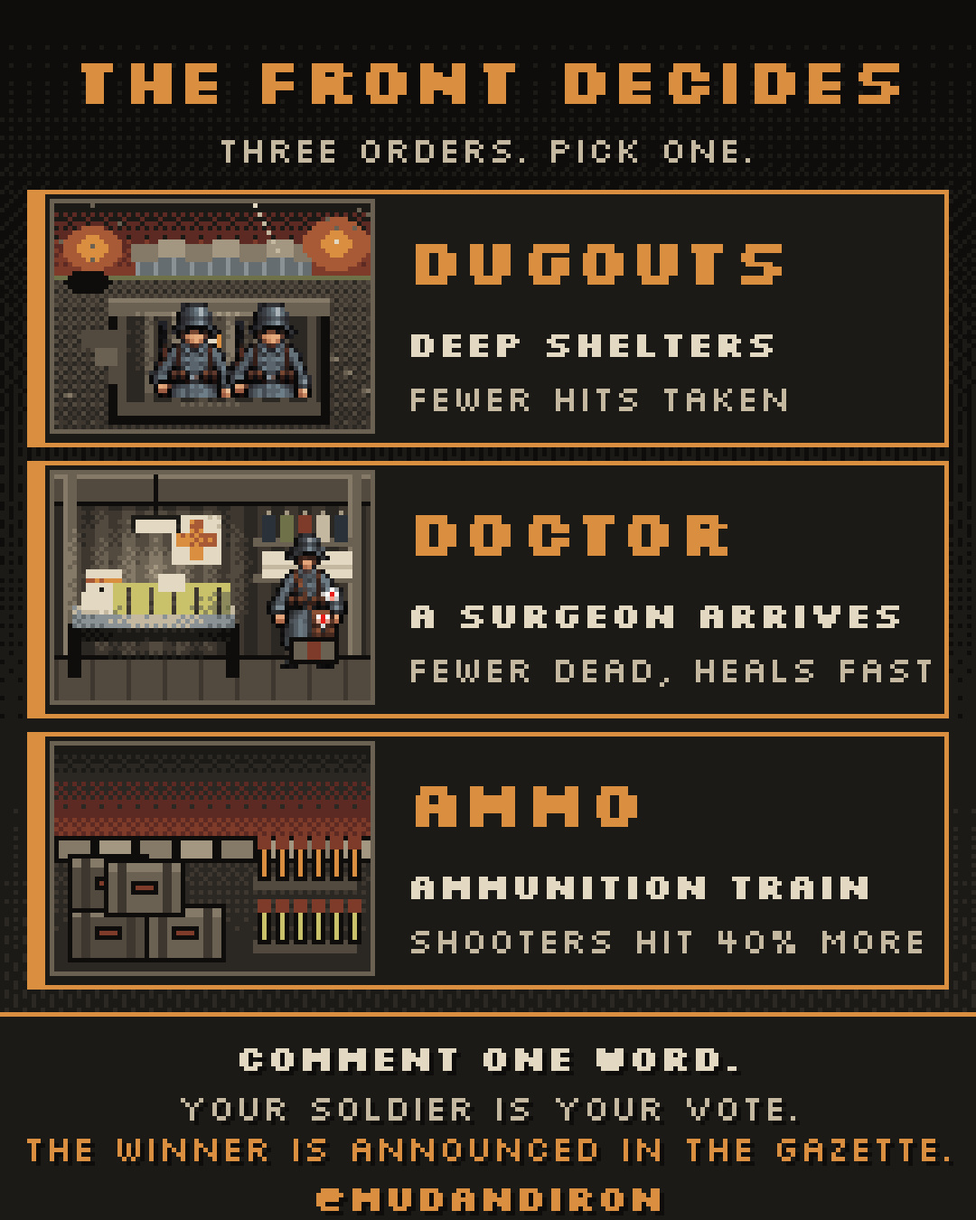
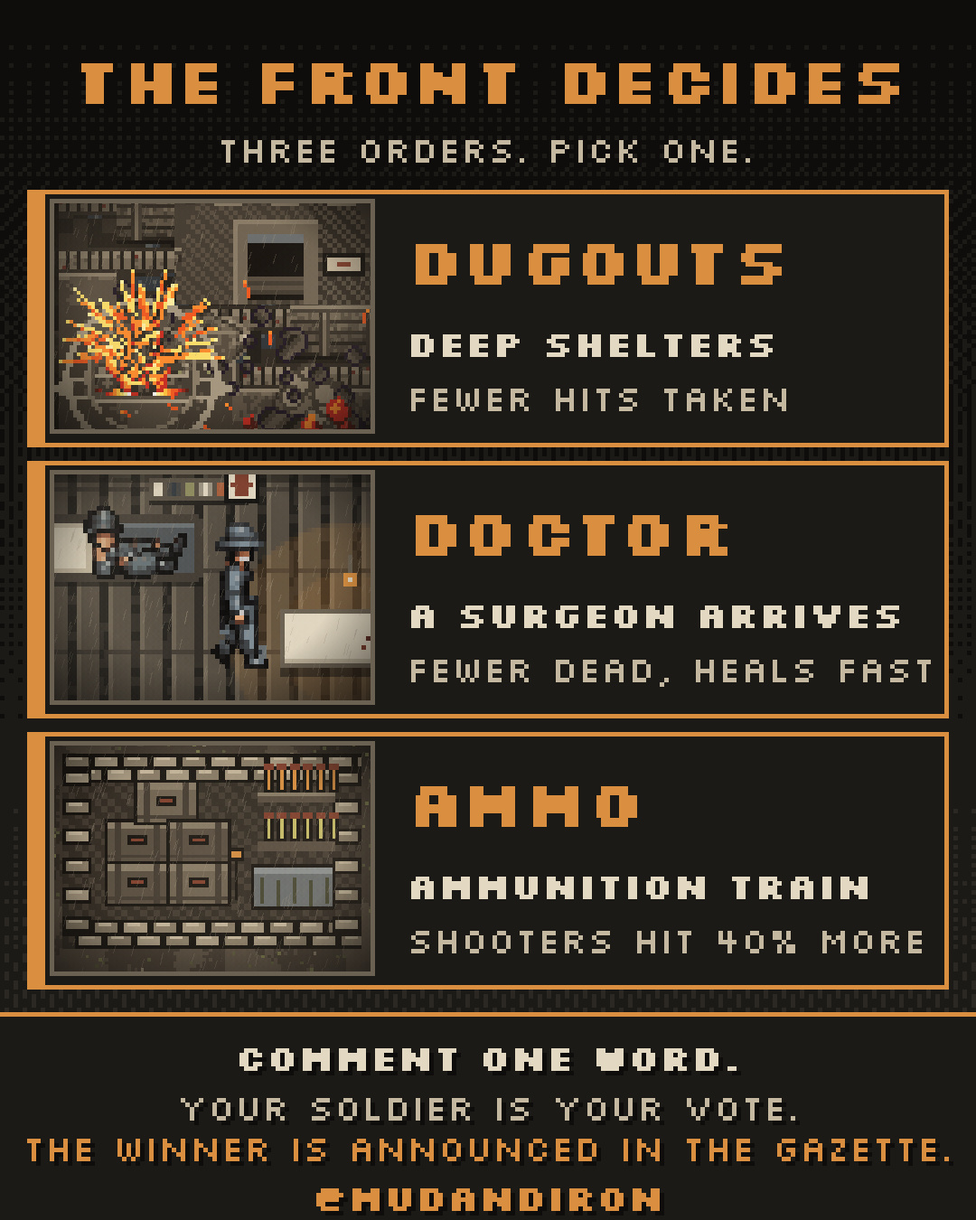
Post hlasování: ilustrace přímo ze hry (tools/shoot-game.mjs); reel-rip naplánován 12. 11. 18:00 UTC; skill doplněn
Claude-Session: https://claude.ai/code/session_01VWWMSwJGFZow7tBNcmKaEZ

Changed region(s): [[0.0306, 0.1556, 0.3972, 0.8089]]

diff --git a/marketing/promo/plan.html b/marketing/promo/plan.html
@@ -13,7 +13,7 @@ details summary{cursor:pointer;color:var(--dim);font-size:14px}pre{white-space:p
 <h1>MUD &amp; IRON · plán</h1><div class="clock" id="clock"></div>
 <div id="app"></div>
 <script>
-const D={"day":4,"items":[{"id":"carousel-intro","label":"","type":"carousel","at":null,"files":["01_the_war_never_ended.jpg","03_how_to_enlist.jpg"],"caption":"For six winters the Concord and the Hegemony have bled into the same valley of mud.","full":"For six winters the Concord and the Hegemony have bled into the same valley of mud.\nNeither will yield. Both need men.\nThey need you. 🪖\n\nSwipe → how to enlist.\nEvery follower becomes a soldier with a name, a unit and a story that is written day by day.\n\n#pixelart #ww1 #grimdark #indiegame #mudandiron","trigger":null,"published":{"at":"2026-11-08T18:24:54.080Z","link":"https://www.instagram.com/p/DffZOEhmmn9/"}},{"id":"post-sides","label":"","type":"image","at":null,"files":["02_choose_your_side.jpg"],"caption":"Choose your side. ⚔","full":"Choose your side. ⚔\n\n🩶 THE HEGEMONY\nAn iron empire that does not know the word retreat. Order, discipline, the long patience of steel.\n→ comment HEGEMONY\n\n🫒 THE CONCORD\nA ragged alliance of free provinces in khaki and flat steel helmets. They fight for the right to go home.\n→ comment CONCORD\n\nYour comment = your soldier. No switching sides.\n\n#pixelart #ww1 #chooseyourside #mudandiron","trigger":null,"published":{"at":"2026-11-08T18:25:08.656Z","link":"https://www.instagram.com/p/DffZPbFGjL1/"}},{"id":"reel-teaser","label":"","type":"reel","at":null,"files":["reel_teaser.mp4"],"caption":"The Great War ended. Here, it never did. ⚔","full":"The Great War ended. Here, it never did. ⚔\n\nMud & Iron is a war fought by Instagram. Every follower becomes a soldier on a giant pixel trench map, with a name, a story and a fate that changes every day.\n\nPick a side 👇\n🩶 HEGEMONY — iron endures\n🫒 CONCORD — together, or not at all\n\nComment your side and take your post on the front.\nFind yourself: link in bio.\n\n#pixelart #ww1 #indiegame #trenchwarfare #gamedev #pixelartgame #grimdark #interactivegame #instagramgame #mudandiron","trigger":null,"published":{"at":"2026-11-08T18:25:58.443Z","link":"https://www.instagram.com/reel/DffZTHegXil/"}},{"id":"reel-enlist","label":"","type":"reel","at":null,"files":["reel_enlist.mp4"],"caption":"This rifle has no name yet. 🪖","full":"This rifle has no name yet. 🪖\n\nComment CONCORD or HEGEMONY below and it's yours.\nWithin a few hours your soldier takes a free post on the front, with your @name on it.\n\nOne comment, one soldier. Choose carefully, there's no switching sides.\n\n#pixelart #ww1 #indiegame #enlist #gamedev #pixelartgame #mudandiron","trigger":null,"published":{"at":"2026-11-08T18:26:37.918Z","link":"https://www.instagram.com/reel/DffZXyxDcxQ/"}},{"id":"poster-generic","label":"","type":"image","at":"2026-11-09T23:00:00Z","files":["04_enlist_poster.jpg"],"caption":"YOUR FRONT NEEDS YOU. 🫵","full":"YOUR FRONT NEEDS YOU. 🫵\n\nComment CONCORD or HEGEMONY and join the war.\nLink in bio to find yourself on the front.\n\n#pixelart #ww1 #propaganda #recruitment #mudandiron","trigger":null,"published":{"at":"2026-11-09T23:04:28.750Z","link":"https://www.instagram.com/p/DfieAbiFweM/"}},{"id":"reel-sides","label":"","type":"reel","at":null,"files":["reel_sides.mp4"],"caption":"Two sides. One valley of mud. Six winters. 🩶 vs 🫒","full":"Two sides. One valley of mud. Six winters. 🩶 vs 🫒\n\nTHE HEGEMONY — an iron empire in field grey. Order. Discipline. Iron endures.\nTHE CONCORD — free provinces in khaki. They fight to go home. Together, or not at all.\n\nWhich side are you on? Comment it 👇 (it enlists you)\n\n#pixelart #ww1 #chooseyourside #indiegame #gamedev #mudandiron","trigger":null,"published":null},{"id":"poster-hegemony","label":"","type":"image","at":null,"files":["05_enlist_hegemony.jpg"],"caption":"IRON ENDURES. 🩶","full":"IRON ENDURES. 🩶\nThe Empire needs disciplined men. Comment HEGEMONY and take your post.\n\n#pixelart #ww1 #hegemony #mudandiron","trigger":null,"published":null},{"id":"reel-howto","label":"","type":"reel","at":"2026-11-12T23:00:00Z","files":["reel_howto.mp4"],"caption":"How to enlist in 10 seconds 🪖","full":"How to enlist in 10 seconds 🪖\n1⃣ Follow @mudandiron\n2⃣ Comment CONCORD or HEGEMONY under the pinned reel\n3⃣ Find your soldier on the front: link in bio\n\nEvery day the front changes. Every day you vote on what happens next.\n\n#pixelart #ww1 #howto #indiegame #mudandiron","trigger":null,"published":null},{"id":"poster-concord","label":"","type":"image","at":"2026-11-13T23:00:00Z","files":["06_enlist_concord.jpg"],"caption":"STAND TOGETHER. 🫒","full":"STAND TOGETHER. 🫒\nThe Alliance needs every hand. Comment CONCORD and take your post.\n\n#pixelart #ww1 #concord #mudandiron","trigger":null,"published":null},{"id":"reel-story","label":"","type":"reel","at":null,"files":["reel_story.mp4"],"caption":"Six winters. One valley of mud. The war that never ended. 🪖","full":"Six winters. One valley of mud. The war that never ended. 🪖\n\nMud & Iron is a war fought by Instagram followers.\nComment your side and a soldier with YOUR name takes a post on the front, for good.\n\n⚔ Every soldier gets a role, a rank and a service record written day by day\n🌑 Every midnight the front turns: wounds, promotions, the fallen\n🩸 Fall, and the next of your family picks up the rifle\n🗳 Vote in the comments and decide what happens next\n💥 500 claimed soldiers unlock the artillery\n🎖 The first 100 recruits wear the First Wave medal forever\n\nComment CONCORD or HEGEMONY below 👇\nFind yourself on the front: link in bio.\n\n#pixelart #ww1 #indiegame #trenchwarfare #gamedev #pixelartgame #grimdark #interactivegame #instagramgame #mudandiron","trigger":null,"published":{"at":"2026-11-08T23:03:41.198Z","link":"https://www.instagram.com/reel/Dff5CQYiCTl/"}},{"id":"reel-day1","label":"Day reel","type":"reel","at":"2026-11-09T13:12:12.382Z","files":["reel_day1.mp4"],"caption":"Day 1 on Verdel Ridge. 🪖","full":"Day 1 on Verdel Ridge. 🪖\nYesterday they were strangers. Tonight 32 of them hold the line: 18 for the Hegemony, 14 for the Concord.\n\n⚔ THE RACE FOR VERDEL RIDGE\nFirst side to 100 soldiers takes the heights: 3 days of artillery on the enemy, a safer week for every soldier who fought, and the title of Hero for the recruit who tips the balance.\n\n📰 Every morning at 13:00 UTC the Trench Gazette prints what happened on the line. If your name is in it, you were there.\n\nEvery friend you bring is one more rifle.\n🩶 comment HEGEMONY · 🫒 comment CONCORD\nFind yourself: link in bio.\n\n#pixelart #ww1 #indiegame #trenchwarfare #instagramgame #gamedev #mudandiron","trigger":null,"published":{"at":"2026-11-09T13:18:23.920Z","link":"https://www.instagram.com/reel/Dfha2PzFxro/"}},{"id":"story-day1-1","label":"","type":"story","at":null,"files":["story_day1_1.mp4"],"caption":"","full":"","trigger":null,"published":{"at":"2026-11-09T13:36:09.203Z","link":"https://www.instagram.com/stories/mudandiron/4026626701375125159"}},{"id":"story-day1-2","label":"","type":"story","at":null,"files":["story_day1_2.mp4"],"caption":"","full":"","trigger":null,"published":{"at":"2026-11-09T13:36:58.353Z","link":"https://www.instagram.com/stories/mudandiron/4026627117113561390"}},{"id":"victory-ridge","label":"","type":"carousel","at":null,"files":["victory_ridge_concord_1.jpg","victory_ridge_concord_2.jpg"],"caption":"🫒 VERDEL RIDGE HAS FALLEN. Now your side votes: comment FORTIFY or HOSPITAL below 👇","full":"🫒 VERDEL RIDGE HAS FALLEN. Now your side votes: comment FORTIFY or HOSPITAL below 👇\n\nThe Concord reached 100 soldiers first (100 against 94) and took the heights. The deciding rifle belonged to jro_se11, now Hero of Verdel Ridge. 🎖\n\nFor 3 days the guns on the ridge pound the Hegemony lines. For a week the high ground keeps the Concord safer. Every Concord soldier wears the ribbon.\n\n🗳 NOW EACH SIDE CHOOSES WHAT TO BUILD\nComment one word below. Your soldier is your ballot: we know which side you serve, so no need to write it.\n\n🧱 FORTIFY: sandbag parapets, fewer men hit\n🏥 HOSPITAL: a hospital dugout, 4 more beds. Without a free bed, the badly wounded wait on stretchers\n\nThe Concord vote for the Concord. The Hegemony vote for the Hegemony. Built and announced in the Trench Gazette at 13:00 UTC.\nNot enlisted yet? Comment CONCORD or HEGEMONY together with your choice.\n\n⚔ The race for Hill 304 starts now. First side to 100 new recruits takes it.\n\n#pixelart #ww1 #indiegame #trenchwarfare #instagramgame #gamedev #mudandiron","trigger":"race: ridge","published":{"at":"2026-11-11T21:57:25.552Z","link":"https://www.instagram.com/p/Dfnf63qFCNV/"}},{"id":"vote-build-d2","label":"","type":"image","at":"2026-11-10T12:41:35.178Z","files":["vote_build_2.jpg"],"caption":"🗳 YOUR SIDE BUILDS ONE. Comment one word below 👇","full":"🗳 YOUR SIDE BUILDS ONE. Comment one word below 👇\n\n🏥 HOSPITAL: a hospital dugout. 4 beds instead of 2, fewer men die of their wounds.\n🧱 SANDBAGS: higher parapets. Fewer men hit, for good.\n\nEach side votes for itself. Your soldier is your ballot: we know which side you serve, so no need to write it. A side that sends no votes builds nothing.\n\nBuilt and announced in the Trench Gazette tomorrow at 13:00 UTC.\nNot enlisted yet? Comment HEGEMONY or CONCORD together with your choice.\n\n#pixelart #ww1 #indiegame #trenchwarfare #instagramgame #gamedev #mudandiron","trigger":null,"published":{"at":"2026-11-10T12:46:15.145Z","link":"https://www.instagram.com/p/Dfj8DfWDIiT/"}},{"id":"casualties-d2","label":"","type":"carousel","at":"2026-11-10T12:34:00.000Z","files":["day2_wounded_1.jpg","day2_wounded_2.jpg","day2_wounded_3.jpg"],"caption":"🩸 DAY 2: FIRST BLOOD ON VERDEL RIDGE","full":"🩸 DAY 2: FIRST BLOOD ON VERDEL RIDGE\n\nThe big guns are still silent. The rifles are not. Five men were hit overnight.\n\n🩶 HEGEMONY: 3 hit\n• @0__freddie__0 badly wounded, shot by @ghai.gpt of the Concord. Now in a bed at the aid post.\n• @slightlyretarded69 grazed, shot by @leo.glc\n• @wolfmanantony grazed, shot by @csllgaks\n\n🫒 CONCORD: 2 hit\n• @pavla.9_ and @the_cowboii grazed by stray bullets\n\nEach side has only an aid post with 2 beds. When they fill, the badly wounded wait on stretchers in the mud. No side has a hospital yet.\n🗳 Today at 15:00 UTC each side votes what to build. Watch this account.\n\nRead the Trench Gazette and find your soldier: link in bio.\n\n#pixelart #ww1 #indiegame #trenchwarfare #instagramgame #gamedev #mudandiron","trigger":null,"published":{"at":"2026-11-10T12:35:23.458Z","link":"https://www.instagram.com/p/Dfj6z8zjtXc/"}},{"id":"reel-news","label":"","type":"reel","at":"2026-11-11T09:00:00Z","files":["reel_news.mp4"],"caption":"NEW ON THE FRONT 🪖","full":"NEW ON THE FRONT 🪖\n\n🎯 Every rifle on the line is a real player, and now every shot can hit one. Hit someone and it goes in both your service records.\n⚔ Ten trades: snipers, machine gunners, stretcher bearers, sappers, cooks… every one of them matters.\n🎖 Every day at the front makes you better: Recruit → Seasoned → Veteran → Elite.\n🏥 The badly wounded need a bed. Each side has an aid post with only two. Follow the red cross on the map.\n🗳 Each side votes what to build: HOSPITAL or SANDBAGS. Find the vote post on our profile. Voting closes today at 13:00 UTC.\n🕯 Fall, and your house fights on. Your heir takes the rifle.\n🏅 Longest alive, best shots, oldest houses: it's all in the Ranks.\n\nComment CONCORD or HEGEMONY to enlist. Find your soldier: link in bio.\n\n#pixelart #ww1 #indiegame #gamedev #trenchwarfare #instagramgame #mudandiron","trigger":null,"published":{"at":"2026-11-11T09:03:44.147Z","link":"https://www.instagram.com/reel/DfmHS-VD06p/"}},{"id":"reel-day2","label":"Day reel","type":"reel","at":"2026-11-10T17:53:17.210Z","files":["reel_day2.mp4"],"caption":"Day 2 on Verdel Ridge. 🪖","full":"Day 2 on Verdel Ridge. 🪖\nThe big guns are silent. The rifles are not.\n\n🪖 136 soldiers now hold the line: 63 for the Hegemony, 73 for the Concord.\n\n🎯 One shot from a Concord sniper. A Hegemony machine gunner, badly wounded, now in a bed at the aid post.\n🩸 Five men hit by morning: three Hegemony, two Concord.\n🏥 Each aid post has only two beds. When they fill, the badly hit wait on stretchers, in the mud.\n\n🗳 Today each side votes what to build: HOSPITAL or SANDBAGS. Comment under our vote post. Your soldier is your ballot.\n\n📰 Every morning at 13:00 UTC the Trench Gazette prints what happened on the line.\nComment CONCORD or HEGEMONY to enlist. Find your soldier: link in bio.\n\n#pixelart #ww1 #indiegame #trenchwarfare #instagramgame #gamedev #mudandiron","trigger":null,"published":{"at":"2026-11-10T17:59:33.696Z","link":"https://www.instagram.com/reel/Dfkf3GQEy_X/"}},{"id":"reel-barrage","label":"","type":"reel","at":"2026-11-10T21:00:00Z","files":["reel_barrage.mp4"],"caption":"The guns on Verdel Ridge never sleep. 💥","full":"The guns on Verdel Ridge never sleep. 💥\n\nEvery soldier who falls out there is a real player.\nThe first army to 100 soldiers takes the ridge, and the winner gets the guns: 3 days of artillery on the enemy trenches.\n\nRight now: 🫒 CONCORD 74 · 🩶 HEGEMONY 65\n\nPick your side. Bring your friends. Every recruit counts.\nComment CONCORD or HEGEMONY 👇\n\n#pixelart #ww1 #trenchwarfare #indiegame #gamedev #pixelartgame #mudandiron","trigger":null,"published":{"at":"2026-11-10T21:03:38.650Z","link":"https://www.instagram.com/reel/Dfk07JrCkrd/"}},{"id":"letters-1","label":"","type":"image","at":null,"files":["letters_1.jpg"],"caption":"LETTERS FROM THE FRONT ✉","full":"LETTERS FROM THE FRONT ✉\n\nTonight the lamps are low and the guns have gone quiet for an hour. Your soldier finally has time to write home.\n\nWrite the letter in the comments. Take your time:\n✏ What is it like in your trench?\n🏥 Who did you see carried past on a stretcher? Who was in the bed next to you?\n⛰ What would taking the ridge mean to you?\n\nLong letters welcome. Write it as your soldier, in your own words.\nThe best letters will be read on the front in the next Day reel. ✉\n\nNot enlisted yet? Comment CONCORD or HEGEMONY first, and your soldier takes a post on the line.\n\n#pixelart #ww1 #lettershome #indiegame #gamedev #trenchwarfare #mudandiron","trigger":null,"published":null},{"id":"council-ridge","label":"","type":"image","at":"2026-11-11T22:18:00Z","files":["council_1.jpg"],"caption":"FRONT COUNCIL 🗺","full":"FRONT COUNCIL 🗺\n\nVerdel Ridge has fallen. The guns are talking. Now it's your turn.\n\nWhat should your side do next? Write your idea in the comments. Big or small, serious or crazy, as long as it fits the war:\n⚔ an attack, a trap, a raid\n🏥 a way to save more men\n🧱 something to build\n📣 anything the front would remember\n\nThe most liked idea of each side becomes an order in the game, and is announced in the Trench Gazette. ❤ Like the ideas you want to see happen.\n\nYour soldier is your voter: we know which side you serve, so no need to write it. Not enlisted yet? Comment CONCORD or HEGEMONY first, and then your idea.\n\n#pixelart #ww1 #indiegame #trenchwarfare #instagramgame #gamedev #mudandiron","trigger":null,"published":{"at":"2026-11-11T22:19:01.014Z","link":"https://www.instagram.com/p/DfniZGbFPG1/"}},{"id":"story-council","label":"","type":"story","at":"2026-11-11T22:29:00Z","files":["story_council.jpg"],"caption":"","full":"","trigger":null,"published":{"at":"2026-11-11T22:29:53.019Z","link":"https://www.instagram.com/stories/mudandiron/4028345121850548348"}},{"id":"reel-ridge","label":"Day reel","type":"reel","at":"2026-11-12T10:00:00Z","files":["reel_ridge.mp4"],"caption":"VERDEL RIDGE HAS FALLEN 🎖","full":"VERDEL RIDGE HAS FALLEN 🎖\n\nThe Concord reached 100 soldiers first (100 against 94) and took the heights. The deciding rifle: Lucien Jro, a field cook, now Hero of Verdel Ridge with the Medal of Valor.\n\nFor 3 nights the guns on the ridge pound the Hegemony lines. The Concord hold the high ground for a week. 65 new soldiers joined the front since the last report.\n\n🪖 222 soldiers on the front right now: 108 Hegemony, 114 Concord.\n\n🗺 WHAT HAPPENS NEXT? The vote is in our FRONT COUNCIL post on this profile. Comment your idea for what your side should do, and like the ideas you want to see. The most liked idea of each side becomes an order.\n\nNot enlisted yet? Comment CONCORD or HEGEMONY under any post.\n\n#pixelart #ww1 #indiegame #trenchwarfare #instagramgame #gamedev #mudandiron","trigger":null,"published":{"at":"2026-11-12T10:05:26.364Z","link":"https://www.instagram.com/reel/DfozJ31j-GZ/"}},{"id":"vote-orders-d4","label":"","type":"image","at":null,"files":["vote_orders_1.jpg"],"caption":"THE FRONT DECIDES ⚔","full":"THE FRONT DECIDES ⚔\n\nVerdel Ridge is in Concord hands, and the Hegemony lines are under the guns. Now the front chooses its next order. One post, one vote, three choices.\n\nComment ONE word:\n🧱 DUGOUTS: deep shelters. Fewer men hit by shells and by fire.\n🩺 DOCTOR: a surgeon arrives. Fewer dead and faster healing.\n📦 AMMO: an ammunition train arrives. Your shooters hit 40% more.\n\nYour soldier is your vote: we know which side you serve, so no need to write it. Each side counts its own votes, so the two sides can choose differently. Not enlisted yet? Comment CONCORD or HEGEMONY together with your choice.\n\nThe winning order of each side is announced in the Trench Gazette at 13:00 UTC.\n\n#pixelart #ww1 #indiegame #trenchwarfare #instagramgame #gamedev #mudandiron","trigger":null,"published":null}],"losses":{"day":4,"sides":[{"name":"Hegemony","dead":5,"light":9,"heavy":11,"crit":6,"shell":15},{"name":"Concord","dead":1,"light":13,"heavy":4,"crit":2,"shell":0}]},"now":[{"name":"Hegemony","wounded":22,"missing":1},{"name":"Concord","wounded":19,"missing":1}],"victory":{"name":"Verdel Ridge","faction":"Concord","day":3,"to":6,"loser":"Hegemony"},"pages":"https://morgenster95.github.io/fronta","slots":{"gazette":13,"evening":23}};
+const D={"day":4,"items":[{"id":"carousel-intro","label":"","type":"carousel","at":null,"files":["01_the_war_never_ended.jpg","03_how_to_enlist.jpg"],"caption":"For six winters the Concord and the Hegemony have bled into the same valley of mud.","full":"For six winters the Concord and the Hegemony have bled into the same valley of mud.\nNeither will yield. Both need men.\nThey need you. 🪖\n\nSwipe → how to enlist.\nEvery follower becomes a soldier with a name, a unit and a story that is written day by day.\n\n#pixelart #ww1 #grimdark #indiegame #mudandiron","trigger":null,"published":{"at":"2026-11-08T18:24:54.080Z","link":"https://www.instagram.com/p/DffZOEhmmn9/"}},{"id":"post-sides","label":"","type":"image","at":null,"files":["02_choose_your_side.jpg"],"caption":"Choose your side. ⚔","full":"Choose your side. ⚔\n\n🩶 THE HEGEMONY\nAn iron empire that does not know the word retreat. Order, discipline, the long patience of steel.\n→ comment HEGEMONY\n\n🫒 THE CONCORD\nA ragged alliance of free provinces in khaki and flat steel helmets. They fight for the right to go home.\n→ comment CONCORD\n\nYour comment = your soldier. No switching sides.\n\n#pixelart #ww1 #chooseyourside #mudandiron","trigger":null,"published":{"at":"2026-11-08T18:25:08.656Z","link":"https://www.instagram.com/p/DffZPbFGjL1/"}},{"id":"reel-teaser","label":"","type":"reel","at":null,"files":["reel_teaser.mp4"],"caption":"The Great War ended. Here, it never did. ⚔","full":"The Great War ended. Here, it never did. ⚔\n\nMud & Iron is a war fought by Instagram. Every follower becomes a soldier on a giant pixel trench map, with a name, a story and a fate that changes every day.\n\nPick a side 👇\n🩶 HEGEMONY — iron endures\n🫒 CONCORD — together, or not at all\n\nComment your side and take your post on the front.\nFind yourself: link in bio.\n\n#pixelart #ww1 #indiegame #trenchwarfare #gamedev #pixelartgame #grimdark #interactivegame #instagramgame #mudandiron","trigger":null,"published":{"at":"2026-11-08T18:25:58.443Z","link":"https://www.instagram.com/reel/DffZTHegXil/"}},{"id":"reel-enlist","label":"","type":"reel","at":null,"files":["reel_enlist.mp4"],"caption":"This rifle has no name yet. 🪖","full":"This rifle has no name yet. 🪖\n\nComment CONCORD or HEGEMONY below and it's yours.\nWithin a few hours your soldier takes a free post on the front, with your @name on it.\n\nOne comment, one soldier. Choose carefully, there's no switching sides.\n\n#pixelart #ww1 #indiegame #enlist #gamedev #pixelartgame #mudandiron","trigger":null,"published":{"at":"2026-11-08T18:26:37.918Z","link":"https://www.instagram.com/reel/DffZXyxDcxQ/"}},{"id":"poster-generic","label":"","type":"image","at":"2026-11-09T23:00:00Z","files":["04_enlist_poster.jpg"],"caption":"YOUR FRONT NEEDS YOU. 🫵","full":"YOUR FRONT NEEDS YOU. 🫵\n\nComment CONCORD or HEGEMONY and join the war.\nLink in bio to find yourself on the front.\n\n#pixelart #ww1 #propaganda #recruitment #mudandiron","trigger":null,"published":{"at":"2026-11-09T23:04:28.750Z","link":"https://www.instagram.com/p/DfieAbiFweM/"}},{"id":"reel-sides","label":"","type":"reel","at":null,"files":["reel_sides.mp4"],"caption":"Two sides. One valley of mud. Six winters. 🩶 vs 🫒","full":"Two sides. One valley of mud. Six winters. 🩶 vs 🫒\n\nTHE HEGEMONY — an iron empire in field grey. Order. Discipline. Iron endures.\nTHE CONCORD — free provinces in khaki. They fight to go home. Together, or not at all.\n\nWhich side are you on? Comment it 👇 (it enlists you)\n\n#pixelart #ww1 #chooseyourside #indiegame #gamedev #mudandiron","trigger":null,"published":null},{"id":"poster-hegemony","label":"","type":"image","at":null,"files":["05_enlist_hegemony.jpg"],"caption":"IRON ENDURES. 🩶","full":"IRON ENDURES. 🩶\nThe Empire needs disciplined men. Comment HEGEMONY and take your post.\n\n#pixelart #ww1 #hegemony #mudandiron","trigger":null,"published":null},{"id":"reel-howto","label":"","type":"reel","at":"2026-11-12T23:00:00Z","files":["reel_howto.mp4"],"caption":"How to enlist in 10 seconds 🪖","full":"How to enlist in 10 seconds 🪖\n1⃣ Follow @mudandiron\n2⃣ Comment CONCORD or HEGEMONY under the pinned reel\n3⃣ Find your soldier on the front: link in bio\n\nEvery day the front changes. Every day you vote on what happens next.\n\n#pixelart #ww1 #howto #indiegame #mudandiron","trigger":null,"published":null},{"id":"poster-concord","label":"","type":"image","at":"2026-11-13T23:00:00Z","files":["06_enlist_concord.jpg"],"caption":"STAND TOGETHER. 🫒","full":"STAND TOGETHER. 🫒\nThe Alliance needs every hand. Comment CONCORD and take your post.\n\n#pixelart #ww1 #concord #mudandiron","trigger":null,"published":null},{"id":"reel-story","label":"","type":"reel","at":null,"files":["reel_story.mp4"],"caption":"Six winters. One valley of mud. The war that never ended. 🪖","full":"Six winters. One valley of mud. The war that never ended. 🪖\n\nMud & Iron is a war fought by Instagram followers.\nComment your side and a soldier with YOUR name takes a post on the front, for good.\n\n⚔ Every soldier gets a role, a rank and a service record written day by day\n🌑 Every midnight the front turns: wounds, promotions, the fallen\n🩸 Fall, and the next of your family picks up the rifle\n🗳 Vote in the comments and decide what happens next\n💥 500 claimed soldiers unlock the artillery\n🎖 The first 100 recruits wear the First Wave medal forever\n\nComment CONCORD or HEGEMONY below 👇\nFind yourself on the front: link in bio.\n\n#pixelart #ww1 #indiegame #trenchwarfare #gamedev #pixelartgame #grimdark #interactivegame #instagramgame #mudandiron","trigger":null,"published":{"at":"2026-11-08T23:03:41.198Z","link":"https://www.instagram.com/reel/Dff5CQYiCTl/"}},{"id":"reel-day1","label":"Day reel","type":"reel","at":"2026-11-09T13:12:12.382Z","files":["reel_day1.mp4"],"caption":"Day 1 on Verdel Ridge. 🪖","full":"Day 1 on Verdel Ridge. 🪖\nYesterday they were strangers. Tonight 32 of them hold the line: 18 for the Hegemony, 14 for the Concord.\n\n⚔ THE RACE FOR VERDEL RIDGE\nFirst side to 100 soldiers takes the heights: 3 days of artillery on the enemy, a safer week for every soldier who fought, and the title of Hero for the recruit who tips the balance.\n\n📰 Every morning at 13:00 UTC the Trench Gazette prints what happened on the line. If your name is in it, you were there.\n\nEvery friend you bring is one more rifle.\n🩶 comment HEGEMONY · 🫒 comment CONCORD\nFind yourself: link in bio.\n\n#pixelart #ww1 #indiegame #trenchwarfare #instagramgame #gamedev #mudandiron","trigger":null,"published":{"at":"2026-11-09T13:18:23.920Z","link":"https://www.instagram.com/reel/Dfha2PzFxro/"}},{"id":"story-day1-1","label":"","type":"story","at":null,"files":["story_day1_1.mp4"],"caption":"","full":"","trigger":null,"published":{"at":"2026-11-09T13:36:09.203Z","link":"https://www.instagram.com/stories/mudandiron/4026626701375125159"}},{"id":"story-day1-2","label":"","type":"story","at":null,"files":["story_day1_2.mp4"],"caption":"","full":"","trigger":null,"published":{"at":"2026-11-09T13:36:58.353Z","link":"https://www.instagram.com/stories/mudandiron/4026627117113561390"}},{"id":"victory-ridge","label":"","type":"carousel","at":null,"files":["victory_ridge_concord_1.jpg","victory_ridge_concord_2.jpg"],"caption":"🫒 VERDEL RIDGE HAS FALLEN. Now your side votes: comment FORTIFY or HOSPITAL below 👇","full":"🫒 VERDEL RIDGE HAS FALLEN. Now your side votes: comment FORTIFY or HOSPITAL below 👇\n\nThe Concord reached 100 soldiers first (100 against 94) and took the heights. The deciding rifle belonged to jro_se11, now Hero of Verdel Ridge. 🎖\n\nFor 3 days the guns on the ridge pound the Hegemony lines. For a week the high ground keeps the Concord safer. Every Concord soldier wears the ribbon.\n\n🗳 NOW EACH SIDE CHOOSES WHAT TO BUILD\nComment one word below. Your soldier is your ballot: we know which side you serve, so no need to write it.\n\n🧱 FORTIFY: sandbag parapets, fewer men hit\n🏥 HOSPITAL: a hospital dugout, 4 more beds. Without a free bed, the badly wounded wait on stretchers\n\nThe Concord vote for the Concord. The Hegemony vote for the Hegemony. Built and announced in the Trench Gazette at 13:00 UTC.\nNot enlisted yet? Comment CONCORD or HEGEMONY together with your choice.\n\n⚔ The race for Hill 304 starts now. First side to 100 new recruits takes it.\n\n#pixelart #ww1 #indiegame #trenchwarfare #instagramgame #gamedev #mudandiron","trigger":"race: ridge","published":{"at":"2026-11-11T21:57:25.552Z","link":"https://www.instagram.com/p/Dfnf63qFCNV/"}},{"id":"vote-build-d2","label":"","type":"image","at":"2026-11-10T12:41:35.178Z","files":["vote_build_2.jpg"],"caption":"🗳 YOUR SIDE BUILDS ONE. Comment one word below 👇","full":"🗳 YOUR SIDE BUILDS ONE. Comment one word below 👇\n\n🏥 HOSPITAL: a hospital dugout. 4 beds instead of 2, fewer men die of their wounds.\n🧱 SANDBAGS: higher parapets. Fewer men hit, for good.\n\nEach side votes for itself. Your soldier is your ballot: we know which side you serve, so no need to write it. A side that sends no votes builds nothing.\n\nBuilt and announced in the Trench Gazette tomorrow at 13:00 UTC.\nNot enlisted yet? Comment HEGEMONY or CONCORD together with your choice.\n\n#pixelart #ww1 #indiegame #trenchwarfare #instagramgame #gamedev #mudandiron","trigger":null,"published":{"at":"2026-11-10T12:46:15.145Z","link":"https://www.instagram.com/p/Dfj8DfWDIiT/"}},{"id":"casualties-d2","label":"","type":"carousel","at":"2026-11-10T12:34:00.000Z","files":["day2_wounded_1.jpg","day2_wounded_2.jpg","day2_wounded_3.jpg"],"caption":"🩸 DAY 2: FIRST BLOOD ON VERDEL RIDGE","full":"🩸 DAY 2: FIRST BLOOD ON VERDEL RIDGE\n\nThe big guns are still silent. The rifles are not. Five men were hit overnight.\n\n🩶 HEGEMONY: 3 hit\n• @0__freddie__0 badly wounded, shot by @ghai.gpt of the Concord. Now in a bed at the aid post.\n• @slightlyretarded69 grazed, shot by @leo.glc\n• @wolfmanantony grazed, shot by @csllgaks\n\n🫒 CONCORD: 2 hit\n• @pavla.9_ and @the_cowboii grazed by stray bullets\n\nEach side has only an aid post with 2 beds. When they fill, the badly wounded wait on stretchers in the mud. No side has a hospital yet.\n🗳 Today at 15:00 UTC each side votes what to build. Watch this account.\n\nRead the Trench Gazette and find your soldier: link in bio.\n\n#pixelart #ww1 #indiegame #trenchwarfare #instagramgame #gamedev #mudandiron","trigger":null,"published":{"at":"2026-11-10T12:35:23.458Z","link":"https://www.instagram.com/p/Dfj6z8zjtXc/"}},{"id":"reel-news","label":"","type":"reel","at":"2026-11-11T09:00:00Z","files":["reel_news.mp4"],"caption":"NEW ON THE FRONT 🪖","full":"NEW ON THE FRONT 🪖\n\n🎯 Every rifle on the line is a real player, and now every shot can hit one. Hit someone and it goes in both your service records.\n⚔ Ten trades: snipers, machine gunners, stretcher bearers, sappers, cooks… every one of them matters.\n🎖 Every day at the front makes you better: Recruit → Seasoned → Veteran → Elite.\n🏥 The badly wounded need a bed. Each side has an aid post with only two. Follow the red cross on the map.\n🗳 Each side votes what to build: HOSPITAL or SANDBAGS. Find the vote post on our profile. Voting closes today at 13:00 UTC.\n🕯 Fall, and your house fights on. Your heir takes the rifle.\n🏅 Longest alive, best shots, oldest houses: it's all in the Ranks.\n\nComment CONCORD or HEGEMONY to enlist. Find your soldier: link in bio.\n\n#pixelart #ww1 #indiegame #gamedev #trenchwarfare #instagramgame #mudandiron","trigger":null,"published":{"at":"2026-11-11T09:03:44.147Z","link":"https://www.instagram.com/reel/DfmHS-VD06p/"}},{"id":"reel-day2","label":"Day reel","type":"reel","at":"2026-11-10T17:53:17.210Z","files":["reel_day2.mp4"],"caption":"Day 2 on Verdel Ridge. 🪖","full":"Day 2 on Verdel Ridge. 🪖\nThe big guns are silent. The rifles are not.\n\n🪖 136 soldiers now hold the line: 63 for the Hegemony, 73 for the Concord.\n\n🎯 One shot from a Concord sniper. A Hegemony machine gunner, badly wounded, now in a bed at the aid post.\n🩸 Five men hit by morning: three Hegemony, two Concord.\n🏥 Each aid post has only two beds. When they fill, the badly hit wait on stretchers, in the mud.\n\n🗳 Today each side votes what to build: HOSPITAL or SANDBAGS. Comment under our vote post. Your soldier is your ballot.\n\n📰 Every morning at 13:00 UTC the Trench Gazette prints what happened on the line.\nComment CONCORD or HEGEMONY to enlist. Find your soldier: link in bio.\n\n#pixelart #ww1 #indiegame #trenchwarfare #instagramgame #gamedev #mudandiron","trigger":null,"published":{"at":"2026-11-10T17:59:33.696Z","link":"https://www.instagram.com/reel/Dfkf3GQEy_X/"}},{"id":"reel-barrage","label":"","type":"reel","at":"2026-11-10T21:00:00Z","files":["reel_barrage.mp4"],"caption":"The guns on Verdel Ridge never sleep. 💥","full":"The guns on Verdel Ridge never sleep. 💥\n\nEvery soldier who falls out there is a real player.\nThe first army to 100 soldiers takes the ridge, and the winner gets the guns: 3 days of artillery on the enemy trenches.\n\nRight now: 🫒 CONCORD 74 · 🩶 HEGEMONY 65\n\nPick your side. Bring your friends. Every recruit counts.\nComment CONCORD or HEGEMONY 👇\n\n#pixelart #ww1 #trenchwarfare #indiegame #gamedev #pixelartgame #mudandiron","trigger":null,"published":{"at":"2026-11-10T21:03:38.650Z","link":"https://www.instagram.com/reel/Dfk07JrCkrd/"}},{"id":"letters-1","label":"","type":"image","at":null,"files":["letters_1.jpg"],"caption":"LETTERS FROM THE FRONT ✉","full":"LETTERS FROM THE FRONT ✉\n\nTonight the lamps are low and the guns have gone quiet for an hour. Your soldier finally has time to write home.\n\nWrite the letter in the comments. Take your time:\n✏ What is it like in your trench?\n🏥 Who did you see carried past on a stretcher? Who was in the bed next to you?\n⛰ What would taking the ridge mean to you?\n\nLong letters welcome. Write it as your soldier, in your own words.\nThe best letters will be read on the front in the next Day reel. ✉\n\nNot enlisted yet? Comment CONCORD or HEGEMONY first, and your soldier takes a post on the line.\n\n#pixelart #ww1 #lettershome #indiegame #gamedev #trenchwarfare #mudandiron","trigger":null,"published":null},{"id":"council-ridge","label":"","type":"image","at":"2026-11-11T22:18:00Z","files":["council_1.jpg"],"caption":"FRONT COUNCIL 🗺","full":"FRONT COUNCIL 🗺\n\nVerdel Ridge has fallen. The guns are talking. Now it's your turn.\n\nWhat should your side do next? Write your idea in the comments. Big or small, serious or crazy, as long as it fits the war:\n⚔ an attack, a trap, a raid\n🏥 a way to save more men\n🧱 something to build\n📣 anything the front would remember\n\nThe most liked idea of each side becomes an order in the game, and is announced in the Trench Gazette. ❤ Like the ideas you want to see happen.\n\nYour soldier is your voter: we know which side you serve, so no need to write it. Not enlisted yet? Comment CONCORD or HEGEMONY first, and then your idea.\n\n#pixelart #ww1 #indiegame #trenchwarfare #instagramgame #gamedev #mudandiron","trigger":null,"published":{"at":"2026-11-11T22:19:01.014Z","link":"https://www.instagram.com/p/DfniZGbFPG1/"}},{"id":"story-council","label":"","type":"story","at":"2026-11-11T22:29:00Z","files":["story_council.jpg"],"caption":"","full":"","trigger":null,"published":{"at":"2026-11-11T22:29:53.019Z","link":"https://www.instagram.com/stories/mudandiron/4028345121850548348"}},{"id":"reel-ridge","label":"Day reel","type":"reel","at":"2026-11-12T10:00:00Z","files":["reel_ridge.mp4"],"caption":"VERDEL RIDGE HAS FALLEN 🎖","full":"VERDEL RIDGE HAS FALLEN 🎖\n\nThe Concord reached 100 soldiers first (100 against 94) and took the heights. The deciding rifle: Lucien Jro, a field cook, now Hero of Verdel Ridge with the Medal of Valor.\n\nFor 3 nights the guns on the ridge pound the Hegemony lines. The Concord hold the high ground for a week. 65 new soldiers joined the front since the last report.\n\n🪖 222 soldiers on the front right now: 108 Hegemony, 114 Concord.\n\n🗺 WHAT HAPPENS NEXT? The vote is in our FRONT COUNCIL post on this profile. Comment your idea for what your side should do, and like the ideas you want to see. The most liked idea of each side becomes an order.\n\nNot enlisted yet? Comment CONCORD or HEGEMONY under any post.\n\n#pixelart #ww1 #indiegame #trenchwarfare #instagramgame #gamedev #mudandiron","trigger":null,"published":{"at":"2026-11-12T10:05:26.364Z","link":"https://www.instagram.com/reel/DfozJ31j-GZ/"}},{"id":"vote-orders-d4","label":"","type":"image","at":null,"files":["vote_orders_1.jpg"],"caption":"THE FRONT DECIDES ⚔","full":"THE FRONT DECIDES ⚔\n\nVerdel Ridge is in Concord hands, and the Hegemony lines are under the guns. Now the front chooses its next order. One post, one vote, three choices.\n\nComment ONE word:\n🧱 DUGOUTS: deep shelters. Fewer men hit by shells and by fire.\n🩺 DOCTOR: a surgeon arrives. Fewer dead and faster healing.\n📦 AMMO: an ammunition train arrives. Your shooters hit 40% more.\n\nYour soldier is your vote: we know which side you serve, so no need to write it. Each side counts its own votes, so the two sides can choose differently. Not enlisted yet? Comment CONCORD or HEGEMONY together with your choice.\n\nThe winning order of each side is announced in the Trench Gazette at 13:00 UTC.\n\n#pixelart #ww1 #indiegame #trenchwarfare #instagramgame #gamedev #mudandiron","trigger":null,"published":null},{"id":"reel-rip","label":"","type":"reel","at":"2026-11-12T18:00:00Z","files":["reel_rip.mp4"],"caption":"R.I.P. 🪦 THE FIRST NIGHT OF THE BARRAGE","full":"R.I.P. 🪦 THE FIRST NIGHT OF THE BARRAGE\n\n5 soldiers of the Hegemony did not see the morning: Bram Yoollyfox, Pavel Zulfi, Nils Wolfmananton, Oskar Brunoescobar, Lucien Jewnipers. The Concord buried 1 too: Henrik Eccentricred.\n\nBut no name dies out here. That same night Dorian Yoollyfox reported for duty, the second of the House of Yoollyfox. Every fall is written in the family tree. Open your soldier's card in the game and read your house.\n\n🪖 251 soldiers on the front right now: 127 Hegemony, 124 Concord.\n\nNot enlisted yet? Comment CONCORD or HEGEMONY under any post and your soldier takes a post on the line.\n\n#pixelart #ww1 #indiegame #trenchwarfare #instagramgame #gamedev #mudandiron","trigger":null,"published":null}],"losses":{"day":4,"sides":[{"name":"Hegemony","dead":5,"light":9,"heavy":11,"crit":6,"shell":15},{"name":"Concord","dead":1,"light":13,"heavy":4,"crit":2,"shell":0}]},"now":[{"name":"Hegemony","wounded":22,"missing":1},{"name":"Concord","wounded":19,"missing":1}],"victory":{"name":"Verdel Ridge","faction":"Concord","day":3,"to":6,"loser":"Hegemony"},"pages":"https://morgenster95.github.io/fronta","slots":{"gazette":13,"evening":23}};
 const fmt=(d,tz)=>new Intl.DateTimeFormat('cs-CZ',{timeZone:tz,weekday:'short',day:'numeric',month:'numeric',hour:'2-digit',minute:'2-digit'}).format(d);
 const both=(d)=>fmt(d,'Europe/Prague')+' (Praha) · '+d.toISOString().slice(11,16)+' UTC';
 const left=(d)=>{let s=Math.round((d-Date.now())/60000);if(s<=0)return 'právě teď / už mělo vyjít';const h=Math.floor(s/60),m=s%60;return 'za '+(h?h+' h ':'')+m+' min'};

diff --git a/web/src/orders-fx.js b/web/src/orders-fx.js
@@ -125,6 +125,7 @@ export function initOrderFx({ world, anchor, roster, map, tex, anims, hospitals,
   let raised = false;
   return {
     shelters: layer.children,
+    docs,
     update(now, view) {
       if (!raised && docs.length) { raised = true; world.setChildIndex(top, world.children.length - 1); } // lékař nad vojáky
       for (const d of docs) {

diff --git a/marketing/make_vote.py b/marketing/make_vote.py
@@ -172,7 +172,14 @@ def make():
     text_c(d, W // 2, 248, "THE WINNER IS ANNOUNCED IN THE GAZETTE.", font(8), P["gold"])
     footer(d, H - 11)
     out = os.path.join(PROMO, "vote_orders_1.jpg")
-    up(im, K).convert("RGB").save(out, quality=95, subsampling=0)
+    big = up(im, K).convert("RGB")
+    # ilustrace přímo ze hry (tools/shoot-game.mjs: stejné sprity a terén, zoom 5 = 1 pixel hry = 1 pixel mřížky postu); jinak kreslené náhrady
+    for i, name in enumerate(("dugouts", "doctor", "ammo")):
+        f = os.path.join(ROOT, "marketing", "art", f"vote_{name}.png")
+        if os.path.exists(f):
+            shot = Image.open(f).convert("RGB").resize((AW * K, AH * K), Image.NEAREST)
+            big.paste(shot, (12 * K, (42 + i * 60 + 3) * K))
+    big.save(out, quality=95, subsampling=0)
     print(out)
 
 
